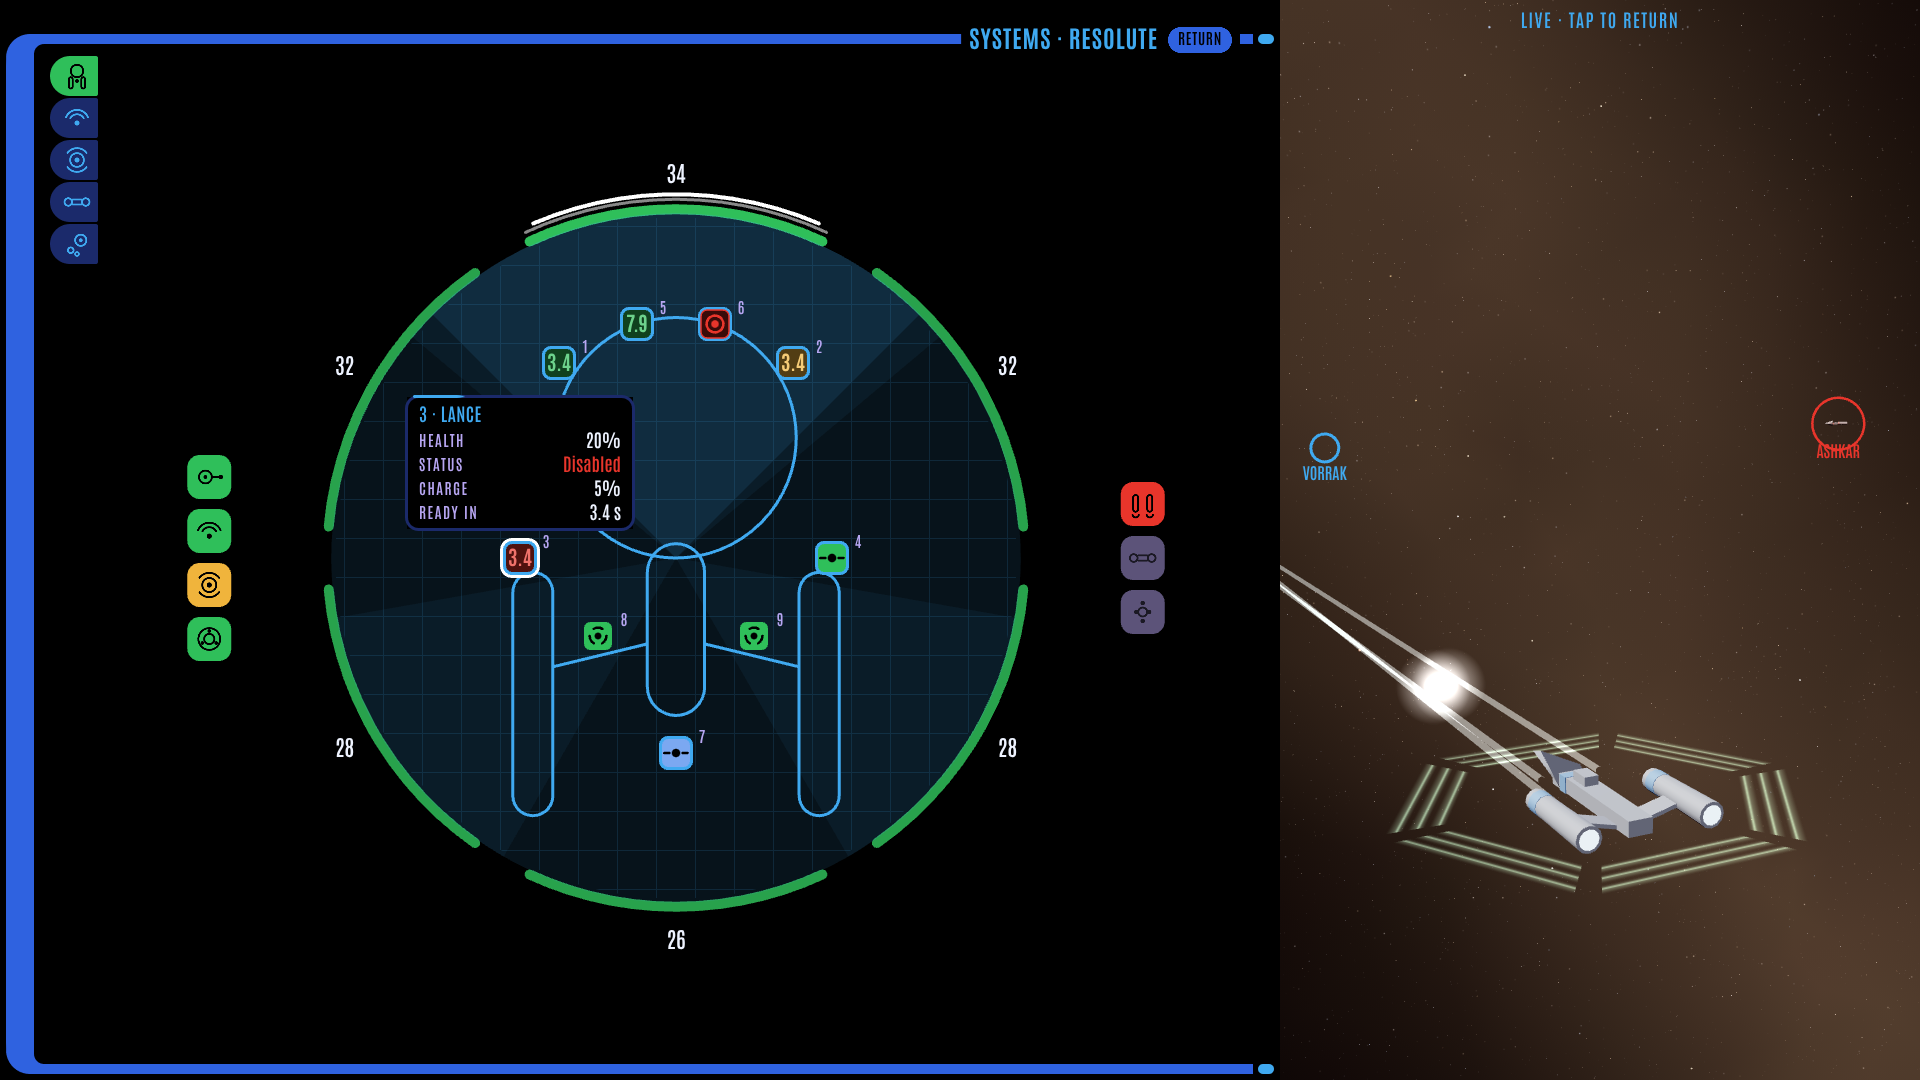
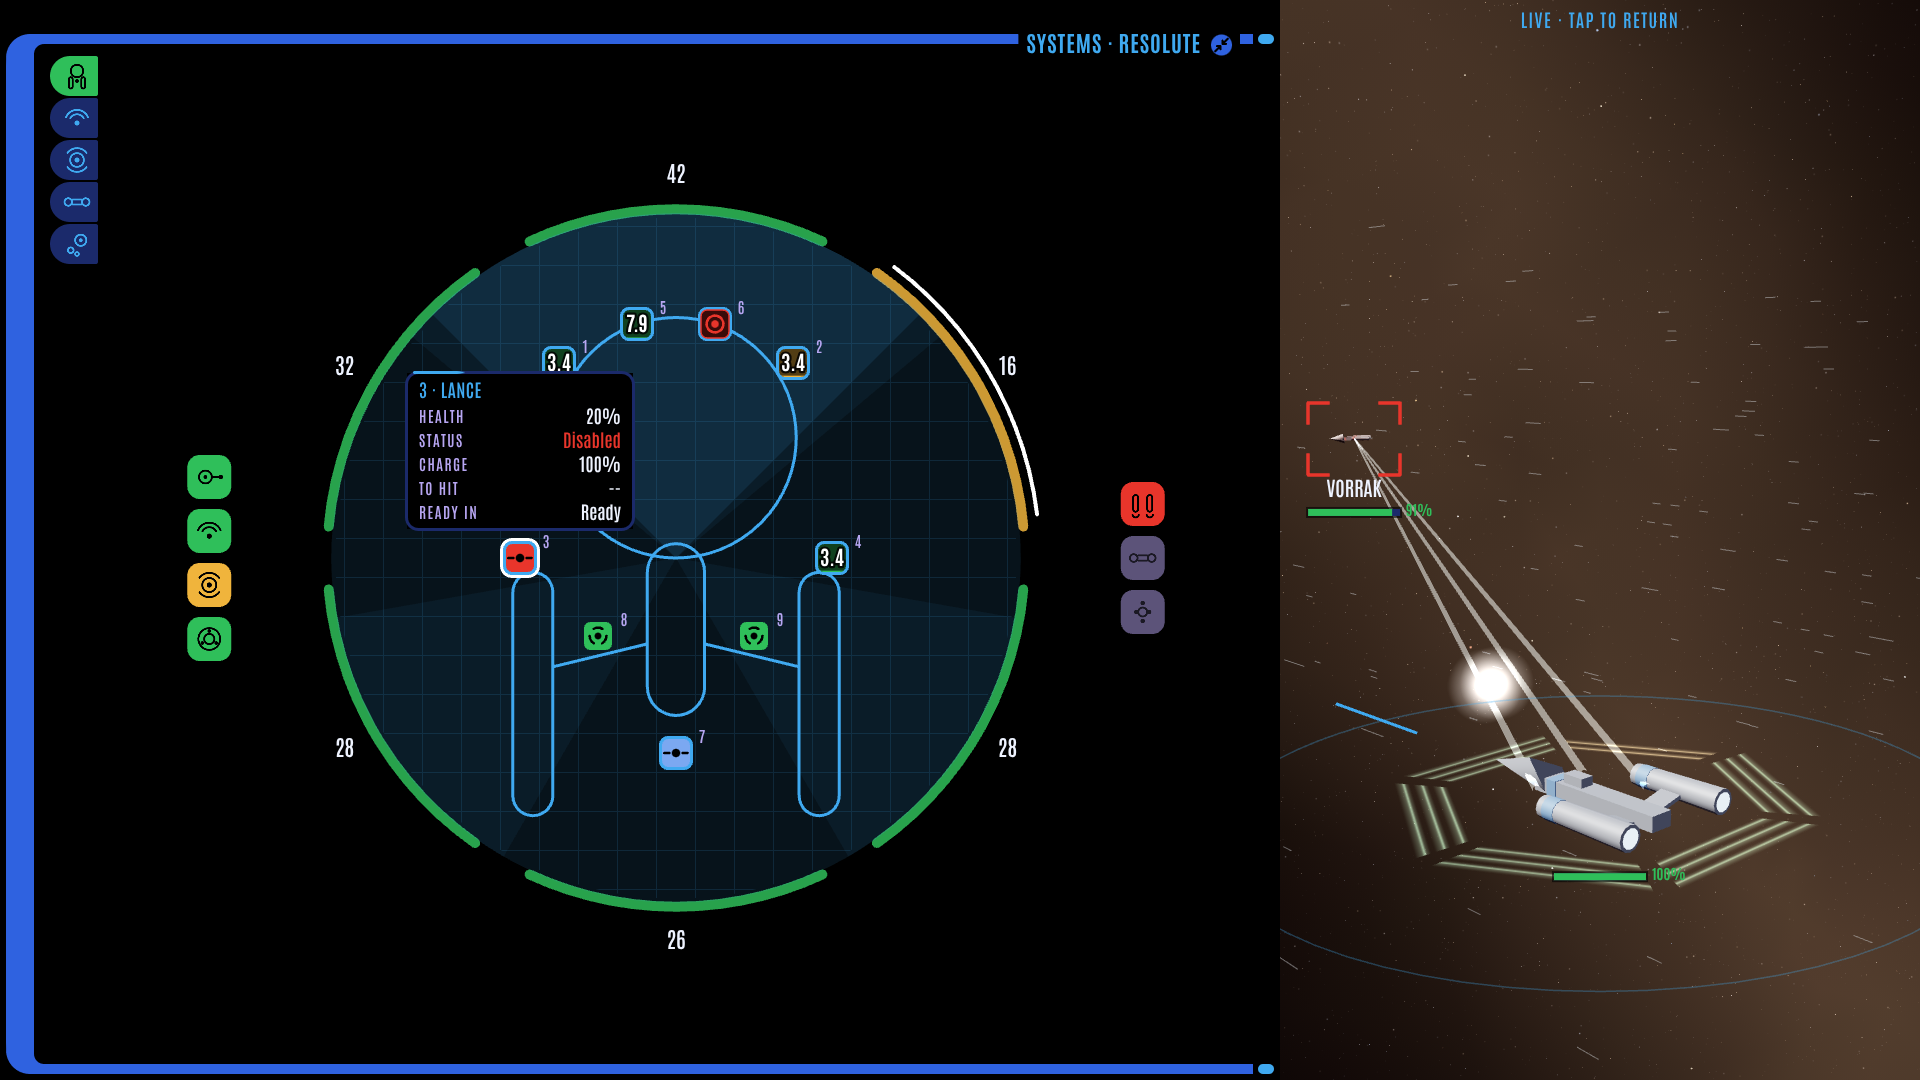
Battle console v44: the chance to hit is per weapon, off the helm
The helm and the view's readout line lose the aggregate figure; each weapon's hover card
shows its own chance to hit, as its details already did. CLAUDE.md section 7 updated to
match (owner, 2026-11-02).

Claude-Session: https://claude.ai/code/session_01RGPQuqAYNNJKpzbbbZ3BfB

diff --git a/docs/mockups/battle-console.html b/docs/mockups/battle-console.html
@@ -1714,7 +1714,6 @@ function helmPad(px, py, size) {
   }
   CON.live.helmCentre(g, 150); g.restore();
 }
-function bestChance() { const s = W.player, t = tgt(s); if (!t) return 0; return Math.max(0, ...s.mounts.filter((m) => m.sel && m.w !== 'pd' && m.state !== 'offline' && inArc(s, m, t)).map((m) => hitChance(s, m, t))); }
 // Helm icons, drawn like signage (owner, 2026-11-02: "please fix these icons to look like actual icons I'd see in an
 // airport or something"): thick strokes, filled triangular arrowheads, familiar shapes. Turns are road-sign turn
 // arrows (a stem going up, then the bend); 180 is the U-turn sign; free heading is straight ahead; intercept an arrow
@@ -1851,8 +1850,10 @@ function stHelm(b, big) {
   }));
   // the readouts beside the pad
   const rx = b.x + 3 * (ks + gap), rw = b.x + b.w - rx, hdg = String(Math.round(((s.h / DEG) + 360) % 360)).padStart(3, '0'), hc = s.hetChance - (s.erratic ? HET.erratic_penalty : 0);
-  const rows = [['To hit', t ? pct(bestChance()) : '--', CC.sky], ['HET', s.broke > 0 ? `Out ${fmtCool(s.broke)} s` : pct(Math.max(0, hc)), s.broke > 0 ? CC.alert : hc < 0.5 ? CC.caution : CC.accord], ['Heading', `${hdg}°`, CC.sky], ['Speed', `${Math.round(s.vOrder)} M/S`, CC.sky]];
-  rows.forEach(([l, v, c2], i) => { const yy = y + i * (3 * ks + 2 * gap) / 4; LBL(l, rx, yy + 14 * k, 0, CC.lilac, 'left', 13 * k); NUM(v, rx, yy + 36 * k, rw, c2, 'left', 22 * k); });
+  // no chance to hit here (owner, 2026-11-02: "why is this in navigation? each weapon should have a to hit chance, to hit
+  // belongs in: weapon info tooltip, weapon details expanded modal")
+  const rows = [['HET', s.broke > 0 ? `Out ${fmtCool(s.broke)} s` : pct(Math.max(0, hc)), s.broke > 0 ? CC.alert : hc < 0.5 ? CC.caution : CC.accord], ['Heading', `${hdg}°`, CC.sky], ['Speed', `${Math.round(s.vOrder)} M/S`, CC.sky]];
+  rows.forEach(([l, v, c2], i) => { const yy = y + i * (3 * ks + 2 * gap) / 3; LBL(l, rx, yy + 14 * k, 0, CC.lilac, 'left', 13 * k); NUM(v, rx, yy + 36 * k, rw, c2, 'left', 22 * k); });
   if (!big) return;
   y += 3 * (ks + gap) + 20;
   if (t) pairs('helm.t', b.x, y, [['Target', t.name], ['Range', km(distKm(s, t))], ['Speed', `${Math.round(t.v)} M/S`]], b.w); else LBL('No target', b.x, y);
@@ -2216,7 +2217,8 @@ function weaponGlyph(x, m, mx, my, r, col) {
 function ssdHits(idp, ox, oy, geo, s, own) {
   for (const [bx, by, bs, key] of geo.boxes) { const st = subsysStatus(s, key); hit(`${idp}.sys.${key}`, ox + bx, oy + by, bs, bs, { tip: { title: SUBSYS.find((q) => q[0] === key)[1], rows: [['Health', pct(clamp(healthOf(s, key), 0, 1))], ['Status', st, STATUS_COL[st]]] } }); }
   for (const [mx, my, rr, m] of geo.mounts) { const st = mountStatus(s, m); hit(`${idp}.m.${m.i}`, ox + mx - rr, oy + my - rr, rr * 2, rr * 2, { click: own && m.w !== 'pd' ? () => A.selectMount(m.i) : null, cursor: own ? 'pointer' : 'default',
-    tip: { title: `${m.i + 1} · ${WEAPONS[m.w].name}`, rows: [['Health', pct(clamp(m.hp, 0, 1))], ['Status', st, STATUS_COL[st]], ['Charge', m.state === 'offline' || m.hp <= 0 ? '--' : pct(m.charge)], ['Ready in', cooldownS(m) === null ? (ready(m) ? 'Ready' : '--') : fmtCool(cooldownS(m)) + ' s']] } }); }
+    tip: { title: `${m.i + 1} · ${WEAPONS[m.w].name}`, rows: [['Health', pct(clamp(m.hp, 0, 1))], ['Status', st, STATUS_COL[st]], ['Charge', m.state === 'offline' || m.hp <= 0 ? '--' : pct(m.charge)],
+      ...(own && m.w !== 'pd' ? [['To hit', tgt(s) && inArc(s, m, tgt(s)) && inRange(s, m, tgt(s)) ? pct(hitChance(s, m, tgt(s))) : '--']] : []), ['Ready in', cooldownS(m) === null ? (ready(m) ? 'Ready' : '--') : fmtCool(cooldownS(m)) + ' s']] } }); }
 }
 // The ship systems display: one drawing for own ship and target, used docked, expanded and in the Target box (6.1).
 function drawSSD(x, w, h, s, big, own, idp) {
@@ -2465,7 +2467,7 @@ function uiWeapons(r, big) {
   for (const [mx, my, rr, m] of geo.mounts) {
     const st = mountStatus(s, m), ax = top.x + mx, ay = top.y + my;
     hit(`wx.m.${m.i}`, ax - rr, ay - rr, rr * 2, rr * 2, { click: () => { wDetail = m.i; }, cursor: 'pointer',
-      tip: { title: `${m.i + 1} · ${WEAPONS[m.w].name}`, rows: [['Health', pct(clamp(m.hp, 0, 1))], ['Status', st, STATUS_COL[st]]] } });
+      tip: { title: `${m.i + 1} · ${WEAPONS[m.w].name}`, rows: [['Health', pct(clamp(m.hp, 0, 1))], ['Status', st, STATUS_COL[st]], ...(m.w !== 'pd' ? [['To hit', t && inArc(s, m, t) && inRange(s, m, t) ? pct(hitChance(s, m, t)) : '--']] : [])] } });
     if (m.w !== 'pd') button(`wx.f.${m.i}`, ax - 24, ay + rr - 1, 48, 20, 'Fire', () => A.fireOne(m.i), { center: true, dis: () => !t || !ready(m) || !inArc(s, m, t) || !inRange(s, m, t) });
   }
   y = top.y + top.h + 8; divider(b.x, y, b.w); y += 14;
@@ -2946,7 +2948,7 @@ function uiView() {
   if (t) {
     const arcN = s.mounts.filter((m) => m.w !== 'pd' && m.state !== 'offline' && inArc(s, m, t) && inRange(s, m, t)), rd = arcN.filter(ready).length;
     rich(vx + 18, ry - 28, [[t.name, CC.sky], [` ${CLASSES[t.cls].name} · range `, CC.lilac], [`${distKm(s, t).toFixed(1)} km`, CC.sky], [' · speed ', CC.lilac], [String(Math.round(t.v)), CC.sky]], '600 22px Antonio', vw * 0.6);
-    rich(vx + 18, ry, [['in arc ', CC.lilac], [String(arcN.length), CC.sky], [' · charged ', CC.lilac], [String(rd), CC.sky], [' · to hit ', CC.lilac], [pct(bestChance()), CC.sky]], '600 22px Antonio', vw * 0.6);
+    rich(vx + 18, ry, [['in arc ', CC.lilac], [String(arcN.length), CC.sky], [' · charged ', CC.lilac], [String(rd), CC.sky]], '600 22px Antonio', vw * 0.6);
   } else rich(vx + 18, ry, [['No target', CC.sky], [' · right click a ship to lock', CC.lilac]], '600 22px Antonio', vw * 0.6);
   const m = W.log[W.log.length - 1];
   if (m && W.t - m.t < 5) rich(vx + 18, ry - 64, [[`${m.who}: ${m.text}`, CC.lilac]], '600 22px Antonio', vw * 0.7);
@@ -2961,7 +2963,7 @@ function uiView() {
     button('v.camlock', bx + hw5 + 6, by + ir[3] + 6, hw5, 30, camLock && !camTargetView ? 'Camera locked' : 'Camera lock', A.camLock, { sel: () => camLock && !camTargetView, center: true });
   }
   if (lock) button('v.lock', lock[0], lock[1], 140, 30, 'Lock target', () => A.lock(lock[2]), { center: true });
-  LBL('Mockup 2 · Battle console · Concord · v43', vx + vw - 104, vy + vh - 20, 0, '#6f7fb4', 'right', 13);
+  LBL('Mockup 2 · Battle console · Concord · v44', vx + vw - 104, vy + vh - 20, 0, '#6f7fb4', 'right', 13);
   button('v.reset', vx + vw - 92, vy + vh - 42, 78, 30, 'Reset', A.reset, { center: true });
   if (sceneOpen) {
     // a click anywhere else closes the list

diff --git a/docs/mockups/tracker.html b/docs/mockups/tracker.html
@@ -111,7 +111,7 @@ const MOCKUPS = [
     url: 'https://claude.ai/artifact/UBbAouwAU3JvcbGf6MhzLt', published: '2026-10-30', version: 5,
     summary: 'Main menu, skirmish (scenario, point budget, fleet and loadout), the campaign hex map with standees, port panels and missions, deploy, a stand-in battle, results, and back to the map.' },
   { id: 'M2', title: 'In-game UI', change: 'battle-console', page: 'docs/mockups/battle-console.html',
-    url: 'https://claude.ai/artifact/9yertq3bYQRmFiDE7N9eBs', published: '2026-11-02', version: 43,
+    url: 'https://claude.ai/artifact/9yertq3bYQRmFiDE7N9eBs', published: '2026-11-02', version: 44,
     summary: 'The battle console in the Concord skin around a live stand-in battle, desktop first: nine stations and five ship pages on narrow columns of icon tabs named on hover, the ship systems display, weapons, radar and tactical map, a speed handle, Power over Systems with the battery, and the power station\'s Reactor mode: a diagram of the core, coils and coolant loops worked by hand, with a meltdown to avoid. Every panel works and expands.' },
   { id: 'M3', title: 'Look dev', change: 'look-dev', page: 'docs/mockups/look-dev.html',
     url: '', published: '', version: 0,

diff --git a/CLAUDE.md b/CLAUDE.md
@@ -265,7 +265,7 @@ else's artwork):
 
 | Region | What it holds |
 |---|---|
-| **Left column** (about a quarter of the width, full height) | Stacked panels, top to bottom: the captain's name plate; the helm (a 3 x 3 pad of turn and manoeuvre buttons, the chance to hit, a big engage button); the **ship systems display** (the ship from above, its shield facings and weapon mounts); the weapons panel (fire, multiple fire, and each mount's arming state: offline, normal, overload, with charge pips); and a small radar or minimap at the bottom |
+| **Left column** (about a quarter of the width, full height) | Stacked panels, top to bottom: the captain's name plate; the helm (a 3 x 3 pad of turn and manoeuvre buttons, and orders toward the target; the chance to hit is per weapon, on each weapon's hover card and its details, not on the helm: owner, 2026-11-02); the **ship systems display** (the ship from above, its shield facings and weapon mounts); the weapons panel (fire, multiple fire, and each mount's arming state: offline, normal, overload, with charge pips, and each weapon's chance to hit); and a small radar or minimap at the bottom |
 | **Top strip** | Own hull integrity bar, the weapon capacitor bar, target hull integrity bar, the mission clock |
 | **Bottom strip** | Speed, power and systems bars |
 | **The 3D view** (everything else) | The battle: own ship in a chase view, the target bracketed with its name, class and speed, a readout of the target's range and own weapons in arc and charged, the pointer for picking targets |

diff --git a/openspec/changes/battle-console/design.md b/openspec/changes/battle-console/design.md
@@ -387,8 +387,9 @@ use (page 120), orbit target, intercept target (the helm steers, the captain kee
 | High energy turns (triggers) | A 3 x 3 pad: hard left 135, 180, hard right 135; left 90, **Free heading** (the middle key, cancelling helm orders), right 90; the angle printed in each turn key's corner |
 | Self (toggles and triggers) | **Erratic manoeuvres** (toggle), **Emergency stop**, **HET free angle** (then click the view) |
 
-Beside the pad: **To hit** (the best chance among the selected weapons of hitting the locked target now, the number
-the shot rolls), **HET** (the chance the next high energy turn succeeds; during a breakdown the seconds left), **Heading**
+Beside the pad (version 44: the chance to hit moved off the helm to each weapon's hover card and its details, owner,
+2026-11-02: "why is this in navigation? each weapon should have a to hit chance, to hit belongs in: weapon info
+tooltip, weapon details expanded modal"; the view's readout line lost its aggregate too): **HET** (the chance the next high energy turn succeeds; during a breakdown the seconds left), **Heading**
 (the ship's heading in degrees, 000 up the map) and **Speed** (the ordered speed, m/s); "Hdg" and "Order" were renamed
 in version 39 for being cryptic. The helm ring,
 pointing and the speed strip still steer by hand (free heading).

diff --git a/docs/artifacts/battle-console/README.md b/docs/artifacts/battle-console/README.md
@@ -61,3 +61,4 @@
 - Version 41 published 2026-11-02, version id `1793601920-a5e5`: the scene selector as a drop-down (remembered across reloads) with the scene's objective under it (green, COMPLETE when met); an unarmed Resolute in every test scene; each scene's tool decisive (one mine, one shuttle, a rock, a barrage past the point defence).
 - Version 42 published 2026-11-02, version id `1793602709-c84d`: Target view and Camera lock as two keys under the Target box (the camera glides to the target and from ship to ship; camera lock brings it back to your ship, facing the target).
 - Version 43 published 2026-11-02, version id `1793604386-ad3e`: a blank grey key fills the HET pad's empty corner.
+- Version 44 published 2026-11-02, version id `1793604519-3064`: the chance to hit is per weapon, on each weapon's hover card and its details; removed from the helm and the view's readout line.

diff --git a/mockup-work.md b/mockup-work.md
@@ -22,7 +22,7 @@ account and every link here is updated.
 | # | Mockup | Stage | OpenSpec change | Page | Link |
 |---|---|---|---|---|---|
 | 1 | Primary game flow | Drafted (2026-10-30, v5) | `game-flow` | `docs/mockups/game-flow.html` | https://claude.ai/artifact/UBbAouwAU3JvcbGf6MhzLt |
-| 2 | In-game UI | Drafted (2026-11-02, v43) | `battle-console` | `docs/mockups/battle-console.html` | https://claude.ai/artifact/9yertq3bYQRmFiDE7N9eBs |
+| 2 | In-game UI | Drafted (2026-11-02, v44) | `battle-console` | `docs/mockups/battle-console.html` | https://claude.ai/artifact/9yertq3bYQRmFiDE7N9eBs |
 | 3 | Look dev | Listed | `look-dev` (to write) | `docs/mockups/look-dev.html` | |
 | 4 | Console skins | Drafted (2026-10-31, v25) | `console-skins` | `docs/mockups/console-skins.html` | https://claude.ai/artifact/UTpgsPvZJrLfkEUmJN7CVb |
 
